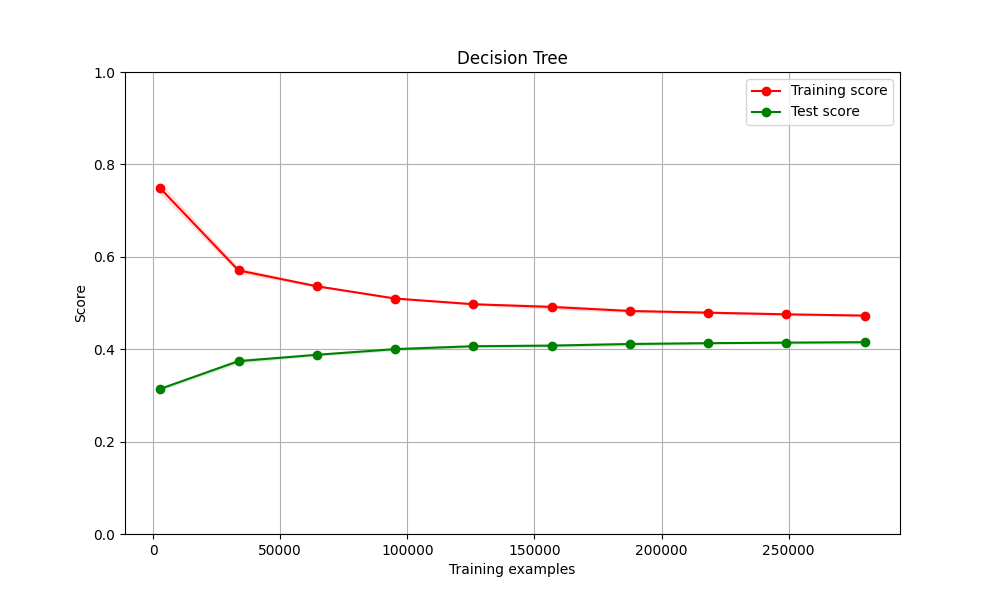
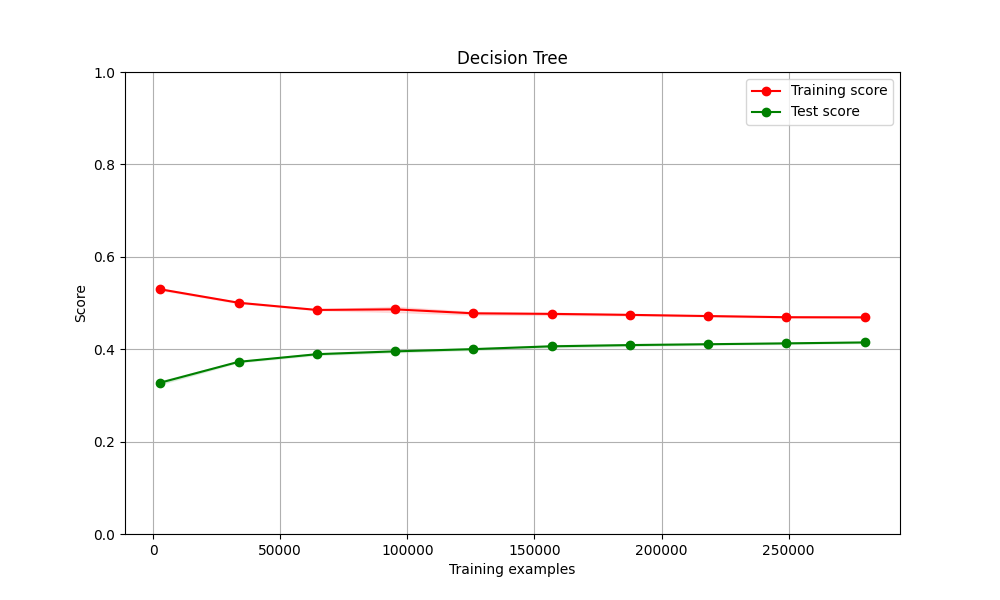
final commit

diff --git a/plot_learning_curve.py b/plot_learning_curve.py
@@ -40,27 +40,27 @@ import seaborn as sns
 RANDOM_SEED = 42
 
 models = {
-    "Decision Tree": DecisionTreeClassifier(
-        max_depth=15,
-        # min_samples_split=20,
-        # min_samples_leaf=9,
-        # max_features=None,
-        # criterion="gini",
-        random_state=RANDOM_SEED
-    ),
-    #     "Random Forest": RandomForestClassifier(n_estimators=50,
-    #                                             min_samples_leaf=35,
-    #                                             min_samples_split=199,
-    #                                             max_features=None,
-    #                                             max_depth=39,
-    #                                             max_leaf_nodes=230,
-    #                                             random_state=RANDOM_SEED,
-    #                                             verbose=2,
-    #                                             bootstrap=True,
-    #                                             oob_score=True,
-    #                                             class_weight=None,
-    #                                             criterion="gini",
-    #                                             n_jobs=4)
+    # "Decision Tree": DecisionTreeClassifier(
+    #     max_depth=15,
+    #     min_samples_split=20,
+    #     min_samples_leaf=9,
+    #     max_features=None,
+    #     criterion="gini",
+    #     random_state=RANDOM_SEED
+    # ),
+    "Random Forest": RandomForestClassifier(n_estimators=50,
+                                            min_samples_leaf=35,
+                                            min_samples_split=199,
+                                            max_features=None,
+                                            max_depth=39,
+                                            max_leaf_nodes=230,
+                                            random_state=RANDOM_SEED,
+                                            verbose=2,
+                                            bootstrap=True,
+                                            oob_score=True,
+                                            class_weight=None,
+                                            criterion="gini",
+                                            n_jobs=4)
 }
 
 # Best parameters: {
@@ -191,7 +191,7 @@ def plot_learning_curve(
 
 
 if __name__ == "__main__":
-    data_sample = load_data()
+    data_sample = load_data_train()
 
     print(data_sample.head())
     print(data_sample.info())
@@ -217,11 +217,11 @@ if __name__ == "__main__":
             "SEASON",
             "WEEKDAY",
             "DATE.OCC.Month",
-            "RD",
-            "Street Category",
-            #   'Status',
-            #   'DATE.OCC.Year',
+            "day_of_month"
             #   'Diff between OCC and Report',
+            #   'Status',
+            #   'RD',
+            # "DATE.OCC.Year",
         ]
     ]
 
@@ -234,14 +234,12 @@ if __name__ == "__main__":
 
     features = pd.get_dummies(features, columns=["AREA"])
     features = pd.get_dummies(features, columns=["SEASON"])
-    features = pd.get_dummies(features, columns=["WEEKDAY"])
     features = pd.get_dummies(features, columns=["DATE.OCC.Month"])
-    features = pd.get_dummies(features, columns=["Street Category"])
-    features = pd.get_dummies(features, columns=["RD"])
-
-    # features = pd.get_dummies(features, columns=['DATE.OCC.Year'])
+    features = pd.get_dummies(features, columns=["WEEKDAY"])
+    features = pd.get_dummies(features, columns=["day_of_month"])
     # features = pd.get_dummies(features, columns=['Status'])
-
+    # features = pd.get_dummies(features, columns=['RD'])
+    # features = pd.get_dummies(features, columns=["DATE.OCC.Year"])
     logger.info("Starting to plot the curve")
 
     X_train, X_test, y_train, y_test = train_test_split(
@@ -257,19 +255,13 @@ if __name__ == "__main__":
         logger.info(f"Plotting {model_name}")
         logger.info(f"{model_name}")
 
-        if model_name == "Decision Tree":
-            plot_learning_curve_no_cv(
-                model, f"{model_name}", X_train, y_train, train_sizes=train_sizes
-            )
+        plot_learning_curve_no_cv(
+            model,
+            f"{model_name}",
+            X_train,
+            y_train,
+            train_sizes=train_sizes
+        )
 
-            # plot_learning_curve(model, f"Learning Curve for {model_name}", features, target, cv=10, train_sizes=train_sizes
-            # )
-
-        else:
-            plot_learning_curve_no_cv(
-                model,
-                f"Learning Curve for {model_name}",
-                X_train,
-                y_train,
-                train_sizes=train_sizes,
-            )
+        # plot_learning_curve(model, f"Learning Curve for {model_name}", features, target, cv=10, train_sizes=train_sizes
+        # )

diff --git a/randomForest.py b/randomForest.py
@@ -27,10 +27,6 @@ from sklearn.model_selection import (
     StratifiedKFold,
     cross_validate,
 )
-from lib.tune_random_forest import (
-    grid_tune_hyperparameters,
-    randomize_tune_hyperparameters,
-)
 import gc
 import optuna
 import psutil
@@ -47,7 +43,8 @@ def print_memory_usage():
     process = psutil.Process()
     mem_info = process.memory_info()
     print(
-        f"RSS: {mem_info.rss / (1024 * 1024)          :.2f} MB, VMS: {mem_info.vms / (1024 * 1024):.2f} MB"
+        f"RSS: {mem_info.rss /
+                (1024 * 1024):.2f} MB, VMS: {mem_info.vms / (1024 * 1024):.2f} MB"
     )
 
 
@@ -63,15 +60,18 @@ def bayesian_optimization_forest(trial, X_train, y_train):
 
     min_samples_leaf = trial.suggest_int("min_samples_leaf", 5, 100)
 
-    max_features = trial.suggest_categorical("max_features", ["sqrt", 0.7, None])
+    max_features = trial.suggest_categorical(
+        "max_features", ["sqrt", 0.7, None])
 
     bootstrap = True
 
     oob_score = True
 
-    class_weight = trial.suggest_categorical("class_weight", [None, "balanced"])
+    class_weight = trial.suggest_categorical(
+        "class_weight", [None, "balanced"])
 
-    criterion = trial.suggest_categorical("criterion", ["gini", "entropy", "log_loss"])
+    criterion = trial.suggest_categorical(
+        "criterion", ["gini", "entropy", "log_loss"])
 
     clf = RandomForestClassifier(
         n_estimators=n_estimators,
@@ -91,7 +91,7 @@ def bayesian_optimization_forest(trial, X_train, y_train):
     gc.collect()
     print_memory_usage()
 
-    return cross_val_score(clf, X_train, y_train, cv=2, n_jobs=4).mean()
+    return cross_val_score(clf, X_train, y_train, cv=5, n_jobs=4).mean()
 
 
 # RSS: 386.99 MB, VMS: 1333.82 MB ohne gc.collect und n = 200000
@@ -152,7 +152,7 @@ if __name__ == "__main__":
     if start_eval == "Y" or start_eval == "y":
         eval = True
 
-    data_sample = load_data()
+    data_sample = load_data_train()
 
     print(data_sample.head())
 
@@ -162,7 +162,8 @@ if __name__ == "__main__":
     data_sample = format_data_frame(data_sample)
     data_sample = filter_outside_points(data_sample)
     logger.info(f"Grouping Categories")
-    data_sample["Crime Categorie"] = data_sample["CrmCd.Desc"].apply(categorize_crime)
+    data_sample["Crime Categorie"] = data_sample["CrmCd.Desc"].apply(
+        categorize_crime)
 
     # del data
     # gc.collect()
@@ -175,11 +176,12 @@ if __name__ == "__main__":
             "Longitude",
             "SEASON",
             "WEEKDAY",
-            "DATE.OCC.Year",
             "DATE.OCC.Month",
+            "day_of_month"
             #   'Diff between OCC and Report',
             #   'Status',
-            #   'RD'
+            #   'RD',
+            # "DATE.OCC.Year",
         ]
     ]
 
@@ -192,11 +194,12 @@ if __name__ == "__main__":
 
     features = pd.get_dummies(features, columns=["AREA"])
     features = pd.get_dummies(features, columns=["SEASON"])
-    features = pd.get_dummies(features, columns=["DATE.OCC.Year"])
     features = pd.get_dummies(features, columns=["DATE.OCC.Month"])
     features = pd.get_dummies(features, columns=["WEEKDAY"])
+    features = pd.get_dummies(features, columns=["day_of_month"])
     # features = pd.get_dummies(features, columns=['Status'])
     # features = pd.get_dummies(features, columns=['RD'])
+    # features = pd.get_dummies(features, columns=["DATE.OCC.Year"])
 
     logger.info("---------------------------------------------")
     logger.info("Data-Preparation finished ...")
@@ -216,7 +219,8 @@ if __name__ == "__main__":
         # Use Optuna to tune the hyperparameters
         study = optuna.create_study(direction="maximize")
         study.optimize(
-            lambda trial: bayesian_optimization_forest(trial, X_train, y_train),
+            lambda trial: bayesian_optimization_forest(
+                trial, X_train, y_train),
             n_trials=300,
             n_jobs=-1,
             show_progress_bar=True,
@@ -287,7 +291,8 @@ if __name__ == "__main__":
 
         # Durchführung der Cross-Validation
         # Verwendung von StratifiedKFold für Cross-Validation
-        skf = StratifiedKFold(n_splits=5, shuffle=True, random_state=RANDOM_SEED)
+        skf = StratifiedKFold(n_splits=5, shuffle=True,
+                              random_state=RANDOM_SEED)
 
         # Durchführung der Cross-Validation
         cv_results = cross_validate(

diff --git a/test_forest.py b/test_forest.py
@@ -1,6 +1,6 @@
 import pandas as pd
 import numpy as np
-from sklearn.tree import DecisionTreeClassifier
+from sklearn.ensemble import RandomForestClassifier
 from sklearn.metrics import (
     classification_report,
     make_scorer,
@@ -30,18 +30,23 @@ if __name__ == "__main__":
 
     logger.info(f"Grouping Categories")
 
-    data_train["Crime Categorie"] = data_train["CrmCd.Desc"].apply(
-        categorize_crime)
-    data_test["Crime Categorie"] = data_test["CrmCd.Desc"].apply(
-        categorize_crime)
+    data_train["Crime Categorie"] = data_train["CrmCd.Desc"].apply(categorize_crime)
+    data_test["Crime Categorie"] = data_test["CrmCd.Desc"].apply(categorize_crime)
 
-    model: DecisionTreeClassifier = DecisionTreeClassifier(
-        max_depth=14,
-        min_samples_split=38,
-        min_samples_leaf=72,
+    model: RandomForestClassifier = RandomForestClassifier(
+        n_estimators=100,
+        min_samples_leaf=15,
+        min_samples_split=45,
         max_features=None,
-        criterion="gini",
+        max_depth=49,  # mein PC schmiert sonst ab
+        max_leaf_nodes=300,
         random_state=RANDOM_SEED,
+        verbose=2,
+        bootstrap=True,
+        oob_score=True,
+        class_weight=None,
+        criterion="gini",
+        n_jobs=-1,
     )
 
     features_train: pd.DataFrame = data_train[
@@ -53,8 +58,7 @@ if __name__ == "__main__":
             "SEASON",
             "WEEKDAY",
             "DATE.OCC.Month",
-            "day_of_month"
-
+            "day_of_month",
             # "Status" ,
             # "DATE.OCC.Year" ,
             # "Diff between OCC and Report" ,
@@ -69,7 +73,7 @@ if __name__ == "__main__":
             "SEASON",
             "WEEKDAY",
             "DATE.OCC.Month",
-            "day_of_month"
+            "day_of_month",
             # "Status" ,
             # "DATE.OCC.Year" ,
             # "Diff between OCC and Report" ,
@@ -81,9 +85,11 @@ if __name__ == "__main__":
 
     scaler = StandardScaler()
     scaled_features_train = scaler.fit_transform(
-        features_train[["Latitude", "Longitude"]])
+        features_train[["Latitude", "Longitude"]]
+    )
     scaled_features_test = scaler.fit_transform(
-        features_test[["Latitude", "Longitude"]])
+        features_test[["Latitude", "Longitude"]]
+    )
 
     features_train.loc[:, ["Latitude", "Longitude"]] = scaled_features_train
     features_test.loc[:, ["Latitude", "Longitude"]] = scaled_features_test
@@ -128,4 +134,4 @@ if __name__ == "__main__":
     accuracy = accuracy_score(target_test, y_pred)
     logger.success(f"Accuracy: {accuracy:.4f}")
     log_loss_tree = log_loss(target_test, y_pred_prob_tree)
-    logger.success(f"Decision Tree Log Loss: {log_loss_tree}")
+    logger.success(f"Random Forest Log Loss: {log_loss_tree}")

diff --git a/lib/plot_performance.py b/lib/plot_performance.py
@@ -1,6 +1,8 @@
 import matplotlib.pyplot as plt
 import numpy as np
 import os
+from loguru import logger
+
 # Daten aus dem classification_report
 categories = [
     "Betrugsdelikte", "Cyberkriminalität", "Eigentumsdelikte", "Gewaltverbrechen",
@@ -8,8 +10,8 @@ categories = [
     "Sonstiges", "Tierschutzverbrechen", "Umweltkriminalität", "Verkehrsdelikte"
 ]
 
-precision = [0.59, 0.00, 0.53, 0.53, 0.00,
-             0.00, 0.00, 0.36, 0.00, 0.00, 0.00, 0.43]
+precision = [0.42, 0.00, 0.44, 0.42, 0.00,
+             0.00, 0.00, 0.00, 0.00, 0.00, 0.00, 0.37]
 
 
 x = np.arange(len(categories))  # the label locations
@@ -19,8 +21,8 @@ fig, ax = plt.subplots(figsize=(12, 8))
 rects1 = ax.bar(x - width, precision, width, label='Precision')
 # Add some text for labels, title and custom x-axis tick labels, etc.
 ax.set_xlabel('Verbrechenskategorie')
-ax.set_ylabel('Scores')
-ax.set_title('Classification Report Metriken nach Verbrechenskategorie')
+ax.set_ylabel('Precision')
+# ax.set_title('Precision jeder Verbrechenskategorie vom Decision Tree')
 ax.set_xticks(x)
 ax.set_xticklabels(categories, rotation=45, ha="right")
 ax.legend()
@@ -28,5 +30,5 @@ ax.legend()
 fig.tight_layout()
 
 os.makedirs('Plots', exist_ok=True)
-plt.savefig('Plots/performance_tree_all_var.png')
-print('CV Tree Results saved')
+plt.savefig('Plots/performance_forest_all_var.png')
+logger.info(f"Saved plot to Plots/performance_tree_all_var.png")

diff --git a/decisionTree.py b/decisionTree.py
@@ -143,9 +143,6 @@ if __name__ == "__main__":
     data_sample["Crime Categorie"] = data_sample["CrmCd.Desc"].apply(
         categorize_crime)
 
-    # del data
-    # gc.collect()
-
     features: pd.DataFrame = data_sample[
         [
             "AREA",
@@ -155,6 +152,7 @@ if __name__ == "__main__":
             "SEASON",
             "WEEKDAY",
             "DATE.OCC.Month",
+            "day_of_month"
             # "RD",
             # "Street Category",
             # "Status",
@@ -242,9 +240,8 @@ if __name__ == "__main__":
     'max_features': None,
     'criterion': 'entropy'}
     }
-
-
     """
+
     ############################################################
 
     # Modell trainieren

diff --git a/lib/data_prep.py b/lib/data_prep.py
@@ -139,7 +139,6 @@ def get_season(month: int) -> str:
     else:
         return 'Herbst'
 
-
 # def categorize_time(hour: int) -> str:
 #     # Zeit als vierstellige Zeichenkette formatieren
 #     hour_str = str(hour).zfill(4)
